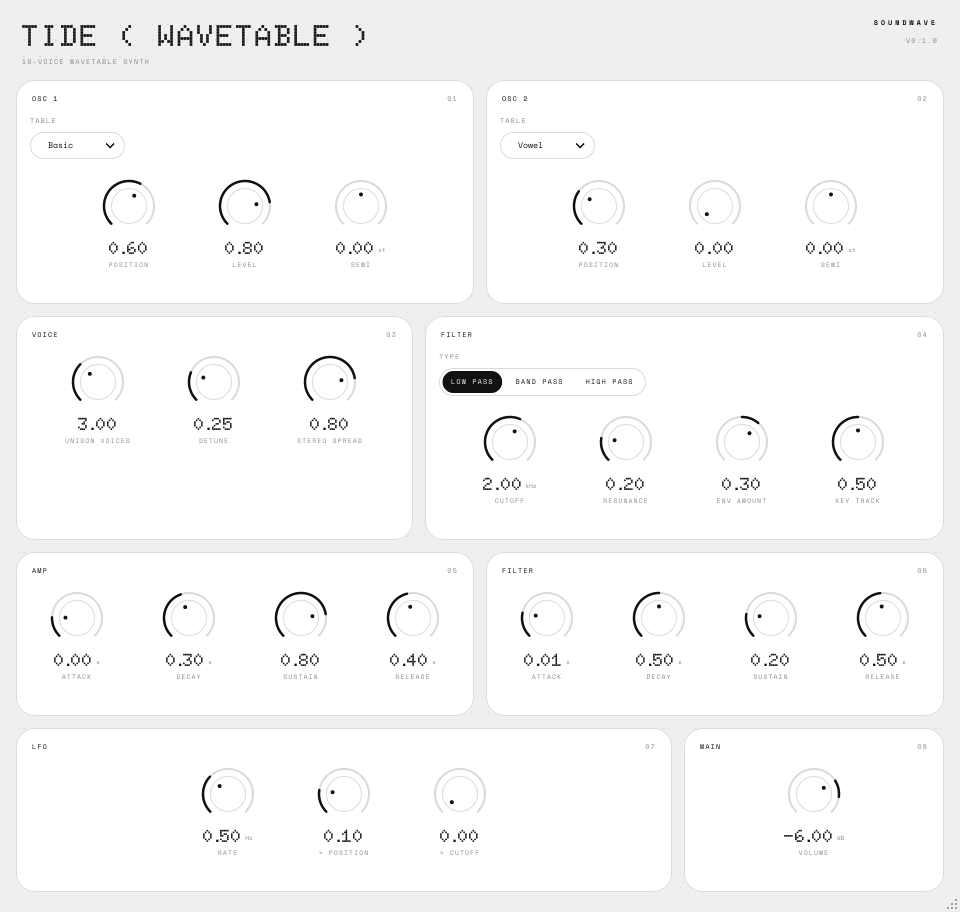
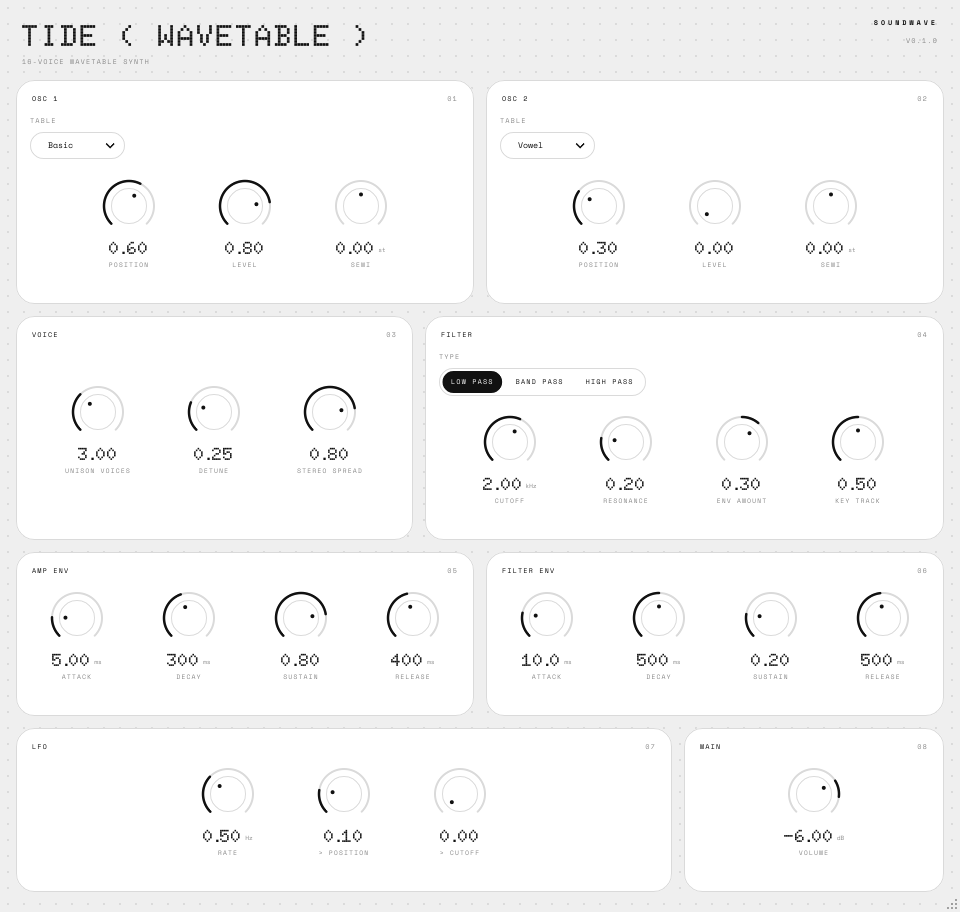
Work in progress: export runner, plugin UI updates
Claude-Session: https://claude.ai/code/session_01Pr7L75pPW7LQEPRVT75dLT

diff --git a/plugins/UI.h b/plugins/UI.h
@@ -322,7 +322,7 @@ struct Panel : juce::Component
                     if (same > 1) key = firstWord(rp->getName(64));
                 }
                 auto it = std::find_if(groups.begin(), groups.end(), [&](auto& g) { return g.key == key; });
-                if (it == groups.end()) { groups.push_back({ key }); it = groups.end() - 1; }
+                if (it == groups.end()) { groups.emplace_back(); groups.back().key = key; it = groups.end() - 1; }
                 it->params.push_back(rp);
                 ++count;
             }
@@ -420,7 +420,10 @@ struct Panel : juce::Component
         {
             size_t j = i; int used = 0;
             while (j < groups.size() && (j == i || used + gap + groups[j].bounds.getWidth() <= avail))
-                used += (j == i ? 0 : gap) + groups[j++].bounds.getWidth();
+            {
+                used += (j == i ? 0 : gap) + groups[j].bounds.getWidth();
+                ++j;
+            }
             int extra = avail - used, rowH = 0, x = margin, natural = used - gap * (int) (j - i - 1);
             for (size_t k = i; k < j; ++k) rowH = juce::jmax(rowH, groups[k].bounds.getHeight());
             for (size_t k = i; k < j; ++k)
